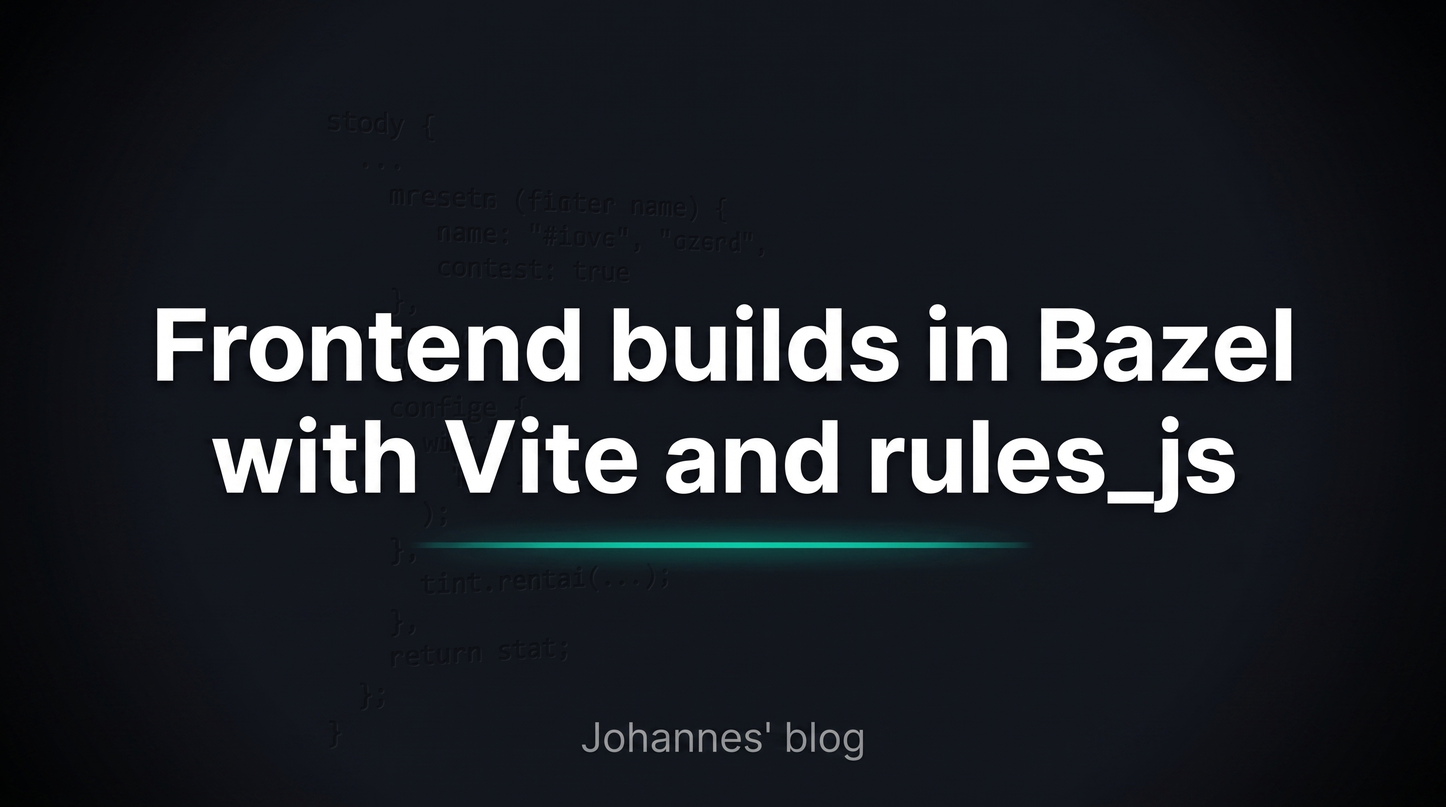
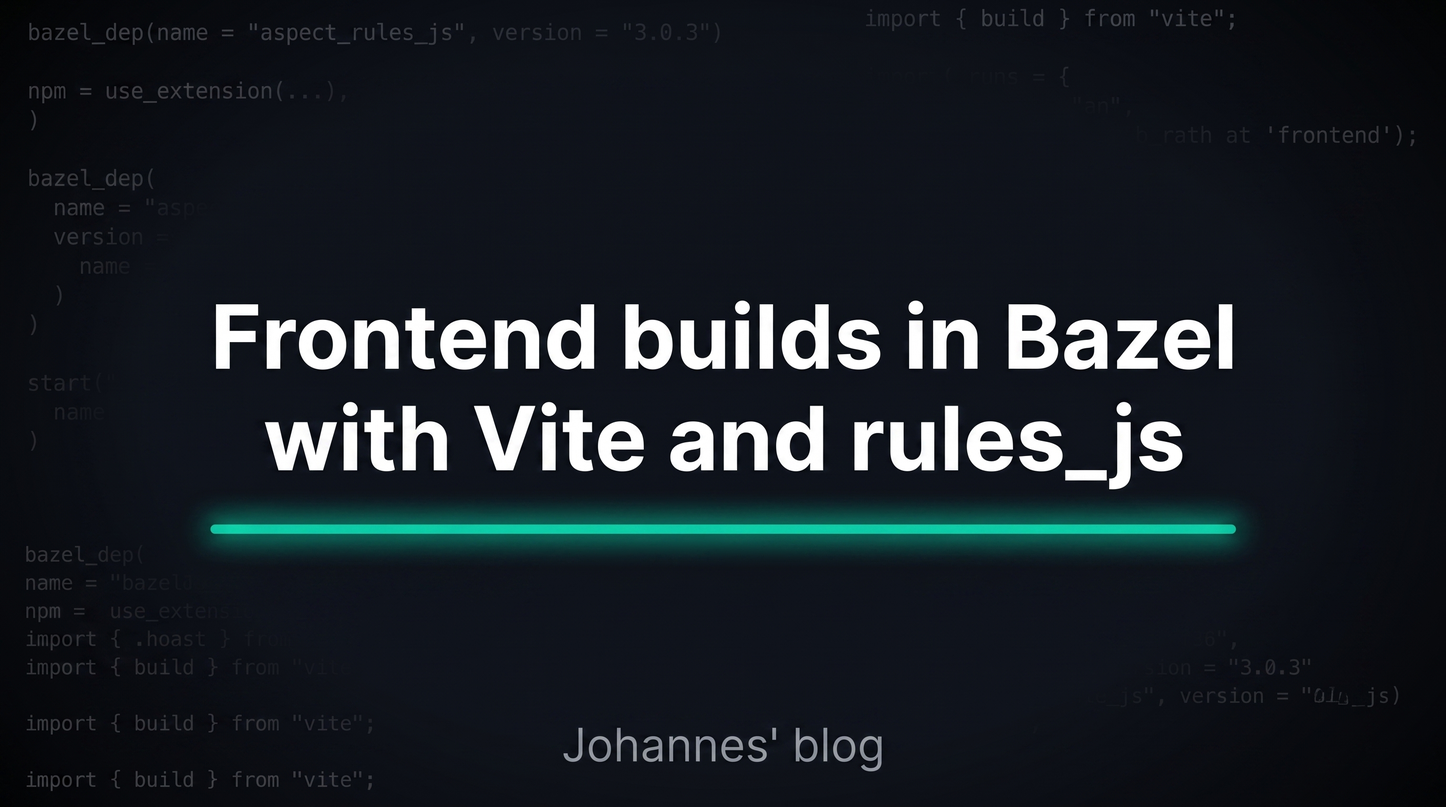
Clean up config: remove theme leftovers, swap OG image, drop lowercase-i rule

diff --git a/CLAUDE.md b/CLAUDE.md
@@ -4,7 +4,7 @@ Personal technical blog. Hugo site.
 
 ## Writing tone
 
-Lowercase "i" always. No em-dashes (—), use commas, periods, or restructure. Direct, technical, not performative. State facts and opinions flatly. Don't announce what the post will cover. Don't summarize at the end. Don't hedge or qualify. Don't try to be punchy or quotable. Don't balance both sides diplomatically. Just explain the thing and move on.
+No em-dashes (—), use commas, periods, or restructure. Direct, technical, not performative. State facts and opinions flatly. Don't announce what the post will cover. Don't summarize at the end. Don't hedge or qualify. Don't try to be punchy or quotable. Don't balance both sides diplomatically. Just explain the thing and move on.
 
 The reader is a competent engineer. Don't hand-hold, don't reassure ("don't worry about X"), don't over-explain things they'd already know.
 
